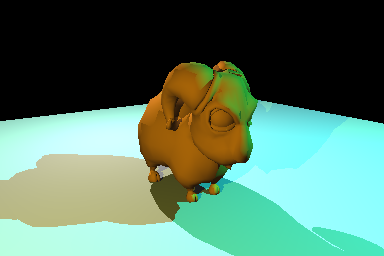
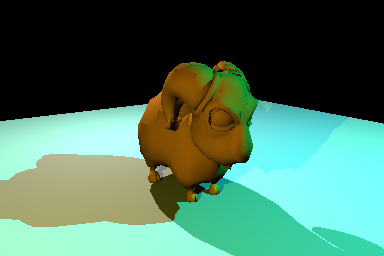
change: the default ambient light drops to 0.05 (v0.3.0)
0.15 was chosen while radiance went straight into bytes, a conversion that
darkens the mid-tones and passed for contrast. Since v0.2.0 the display
lifts them properly through sRGB, and that much ambient washed the shadows
out: the ram looked flat.

Every lit picture gains contrast. The twelve lit goldens and the gallery
are regenerated; the other modes never read the ambient term and are
untouched, and --ambient still overrides it. One unit test pinned the old
value and now pins the new one.

Claude-Session: https://claude.ai/code/session_01Sw6sFPZF732G8mGLLBPXNJ

Changed region(s): [[0.3438, 0.2188, 0.6875, 0.8125]]

diff --git a/src/cli/Main.cpp b/src/cli/Main.cpp
@@ -98,7 +98,7 @@ Options:
                          silhouette stays exact at any zoom. Position and radius in half
                          model sizes around the model's centre (like --light); kind is
                          matte, mirror or glass. Repeatable
-  --ambient <a>          ambient intensity (default 0.15)
+  --ambient <a>          ambient intensity (default 0.05)
   --light <i> <x> <y> <z> <r> <g> <b> <intensity>
                          replace light i of the rig (0 key, 1 fill, 2 rim), or add one with
                          i = 3; position in half model sizes around the model's centre

diff --git a/tests/TestDisplay.cpp b/tests/TestDisplay.cpp
@@ -169,7 +169,7 @@ TEST_CASE("display: HDR images keep radiance above 1 and survive a Radiance .hdr
     RayTracer rt;
     rt.setSpecularEnabled(false);
     const HdrImage hdr = rt.renderHdr(s, cam, 16, 16);
-    CHECK_CLOSE(hdr.get(8, 8)[0], 0.15f + 3.f * 1.f, 0.02f);  // ambient + three lights head-on
+    CHECK_CLOSE(hdr.get(8, 8)[0], 0.05f + 3.f * 1.f, 0.02f);  // ambient + three lights head-on
     // The 8-bit render is that buffer through the display, pixel for pixel.
     const Image bytes = rt.render(s, cam, 16, 16);
     const Image mapped = rt.getDisplay().apply(hdr);

diff --git a/src/core/RayTracer.h b/src/core/RayTracer.h
@@ -239,7 +239,9 @@ private:
     DebugMode debugMode = DebugMode::LIT;
     float depthNear = 0.f;
     float depthFar = 10.f;
-    float ambientIntensity = 0.15f;
+    // 0.05, not the 0.15 of the linear-bytes years: the display (Display.h)
+    // lifts the dark tones now, and 0.15 washed the shadows out.
+    float ambientIntensity = 0.05f;
     Vec3Df backgroundColor = Vec3Df (0.f, 0.f, 0.f);
     Display display;
     unsigned int aaSamplesPerAxis = 1;

diff --git a/CHANGELOG.md b/CHANGELOG.md
@@ -11,6 +11,17 @@ publishes it as the release notes, with the binaries for macOS and Linux.
 
 ## [Unreleased]
 
+## [0.3.0] - 2026-09-20
+
+### Changed
+
+- **The default ambient light drops from 0.15 to 0.05.** The old value was
+  chosen when radiance went straight into bytes, a conversion that darkens
+  the mid-tones and passed for contrast. Since 0.2.0 the display lifts them
+  properly (sRGB), and 0.15 washed the shadows out. Every lit picture gains
+  contrast; the twelve lit goldens and the gallery are regenerated, the
+  other modes are untouched, and `--ambient` still overrides it.
+
 ## [0.2.0] - 2026-09-20
 
 Step 11 of the timeline: R. A. Goldstein & R. Nagel, "3-D Visual
@@ -75,6 +86,7 @@ framework, modernised to C++17, GLFW and Dear ImGui).
   physical property or an invariant, plus 42 golden images, run on Ubuntu and
   macOS by the CI.
 
-[Unreleased]: https://github.com/alexduros/RayTracer/compare/v0.2.0...HEAD
+[Unreleased]: https://github.com/alexduros/RayTracer/compare/v0.3.0...HEAD
+[0.3.0]: https://github.com/alexduros/RayTracer/releases/tag/v0.3.0
 [0.2.0]: https://github.com/alexduros/RayTracer/releases/tag/v0.2.0
 [0.1.0]: https://github.com/alexduros/RayTracer/releases/tag/v0.1.0

diff --git a/claudedocs/EXPERIMENTS.md b/claudedocs/EXPERIMENTS.md
@@ -355,10 +355,10 @@ CLI so the default cyan/yellow/white rig can be tuned without code changes.
   `cli_display`, `cli_hdr`, `cli_overrides`, `cli_bad_tonemap`,
   `cli_bad_light`. Every other golden and gallery picture unchanged.
 - Seen on the ram: the scene was lit for linear bytes, which darken the
-  mid-tones and so read as contrast. Through sRGB the ambient term (0.15)
-  lifts the shadows, and the ram looks flatter than before, more physically
-  shown. An ambient near 0.05 (`--ambient 0.05`) gives the contrast back; the
-  default was left alone, since it moves every golden.
+  mid-tones and so read as contrast. Through sRGB the ambient term lifted
+  the shadows, and the ram looked flatter than before, more physically
+  shown. The default ambient went from 0.15 to 0.05 in v0.3.0, which gives
+  the contrast back; it moved the twelve lit goldens and the gallery.
 - Left: Tumblin & Rushmeier's operator (1993), Reinhard's local
   (dodge-and-burn) operator, a histogram view of the radiance.
 

diff --git a/CLAUDE.md b/CLAUDE.md
@@ -138,6 +138,10 @@ build/raymini-cli --help
   now dominates. Soft shadows multiply the shadow work by n x n: ram on its
   ground at 384x384 with 2x2 AA and 8x8 shadow rays takes 3.9 s on one
   thread, 0.75 s on ten.
+- Ambient light is 0.05 by default (`setAmbientIntensity`, CLI `--ambient`).
+  It was 0.15 while radiance went straight into bytes; the display of
+  experiment 9 lifts the dark tones, so that much ambient flattened every
+  picture.
 - `Scene::addDefaultLights()` is the original cyan/yellow/white rig, scaled
   to the model's bounding box. Cyan light on the orange default material
   gives the green tint you see on renders; that is expected.
